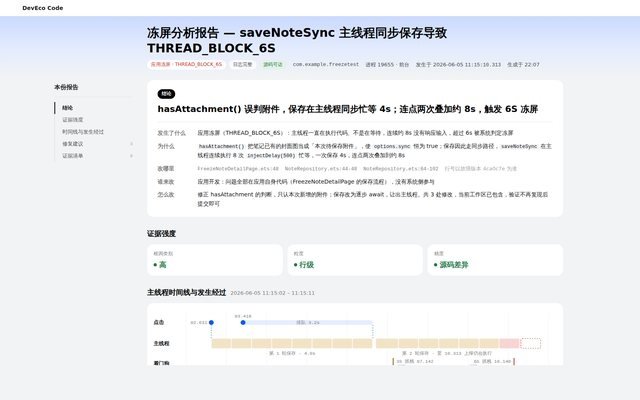
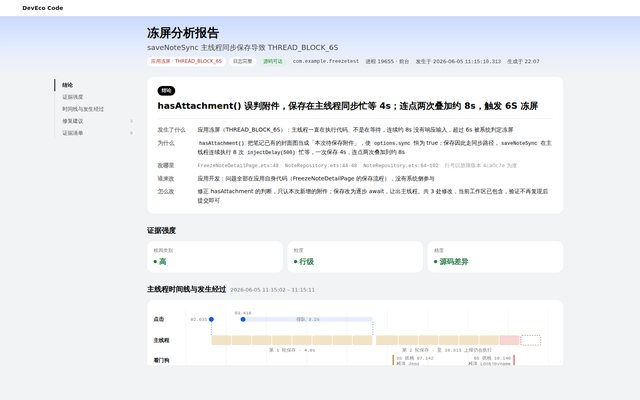
demo 28 标题拆成主副两行，去掉左侧目录的「本份报告」标题
主标题「冻屏分析报告」，副标题「saveNoteSync 主线程同步保存导致
THREAD_BLOCK_6S」（18px，次级墨色）；左侧目录去掉「本份报告」标题与分隔线。

diff --git a/demos/28-appfreeze-report/index.html b/demos/28-appfreeze-report/index.html
@@ -45,13 +45,13 @@ svg.i{width:16px;height:16px;fill:none;stroke:currentColor;stroke-width:1.6;stro
 .hero .pill.no{background:#fff;color:var(--no)}
 .pill svg.i{width:13px;height:13px}
 h1{font-size:30px;font-weight:700;line-height:1.3;color:var(--ink)}
+.subtitle{margin-top:4px;font-size:18px;font-weight:500;line-height:1.5;color:var(--ink2)}
 .meta{margin-top:10px;font-size:13px;color:var(--ink2);display:flex;flex-wrap:wrap;align-items:center;gap:6px 16px}
 .meta .pill+.pill{margin-left:-8px}
 
 /* ===== 骨架：文档中心式居中容器，左树 + 正文 ===== */
 .wrap{max-width:var(--wrap);margin:0 auto;display:flex;gap:36px;padding:8px 56px 88px}
 .side{width:196px;flex:none;position:sticky;top:calc(var(--top) + 20px);align-self:flex-start;max-height:calc(100vh - var(--top) - 40px);overflow:auto;padding-top:6px}
-.side h6{font-size:15px;font-weight:700;color:var(--ink1);padding-bottom:12px;margin-bottom:12px;border-bottom:1px solid var(--line)}
 .tree{border-left:1px solid #D5D8DC;display:flex;flex-direction:column;margin-bottom:24px}
 .tree a{display:flex;align-items:center;gap:8px;min-height:30px;padding:3px 0 3px 18px;margin-left:-1px;border-left:2px solid transparent;color:var(--ink2);text-decoration:none;font-size:13px}
 .tree a:hover{color:var(--ink1)}
@@ -174,7 +174,7 @@ h1{font-size:30px;font-weight:700;line-height:1.3;color:var(--ink)}
 
 .fade{animation:fade .35s ease}
 @keyframes fade{from{opacity:.2;transform:translateY(4px)}to{opacity:1;transform:none}}
-@media (max-width:900px){.side{display:none}.wrap{padding:8px 16px 60px}.hero-in{padding:18px 16px 14px}.sub{padding:0 16px;gap:12px}h1{font-size:24px}.axes{grid-template-columns:1fr}.vrows{grid-template-columns:1fr;gap:2px 0}.vrows dd{margin-bottom:8px}.story li{grid-template-columns:1fr;gap:0}}
+@media (max-width:900px){.side{display:none}.wrap{padding:8px 16px 60px}.hero-in{padding:18px 16px 14px}.sub{padding:0 16px;gap:12px}h1{font-size:24px}.subtitle{font-size:15px}.axes{grid-template-columns:1fr}.vrows{grid-template-columns:1fr;gap:2px 0}.vrows dd{margin-bottom:8px}.story li{grid-template-columns:1fr;gap:0}}
 @media (prefers-reduced-motion:reduce){*{animation:none!important;transition:none!important}}
 
 .stack{display:flex;flex-direction:column;gap:28px;max-width:1040px}
@@ -207,7 +207,6 @@ h1{font-size:30px;font-weight:700;line-height:1.3;color:var(--ink)}
 
 <div class="wrap">
   <aside class="side" id="side">
-    <h6>本份报告</h6>
     <nav class="tree">
       <a href="#sec-verdict" data-s="sec-verdict">结论</a>
       <a href="#sec-strength" data-s="sec-strength">证据强度</a>
@@ -375,7 +374,8 @@ function render(anim){
   const cnt={hit:0,pass:0,excl:0,miss:0}; cks.forEach(c=>cnt[c.s]++);
   $('#nav-fixn').textContent=fixes.length; $('#nav-ckn').textContent=cks.length;
   $('#hero').innerHTML=`<div class="hero"><div class="hero-in"><div class="l">
-      <h1>冻屏分析报告 — saveNoteSync 主线程同步保存导致 THREAD_BLOCK_6S</h1>
+      <h1>冻屏分析报告</h1>
+      <p class="subtitle">saveNoteSync 主线程同步保存导致 THREAD_BLOCK_6S</p>
       <div class="meta">
         <span class="pill no">应用冻屏 · THREAD_BLOCK_6S</span>
         <span class="pill">日志完整</span>
